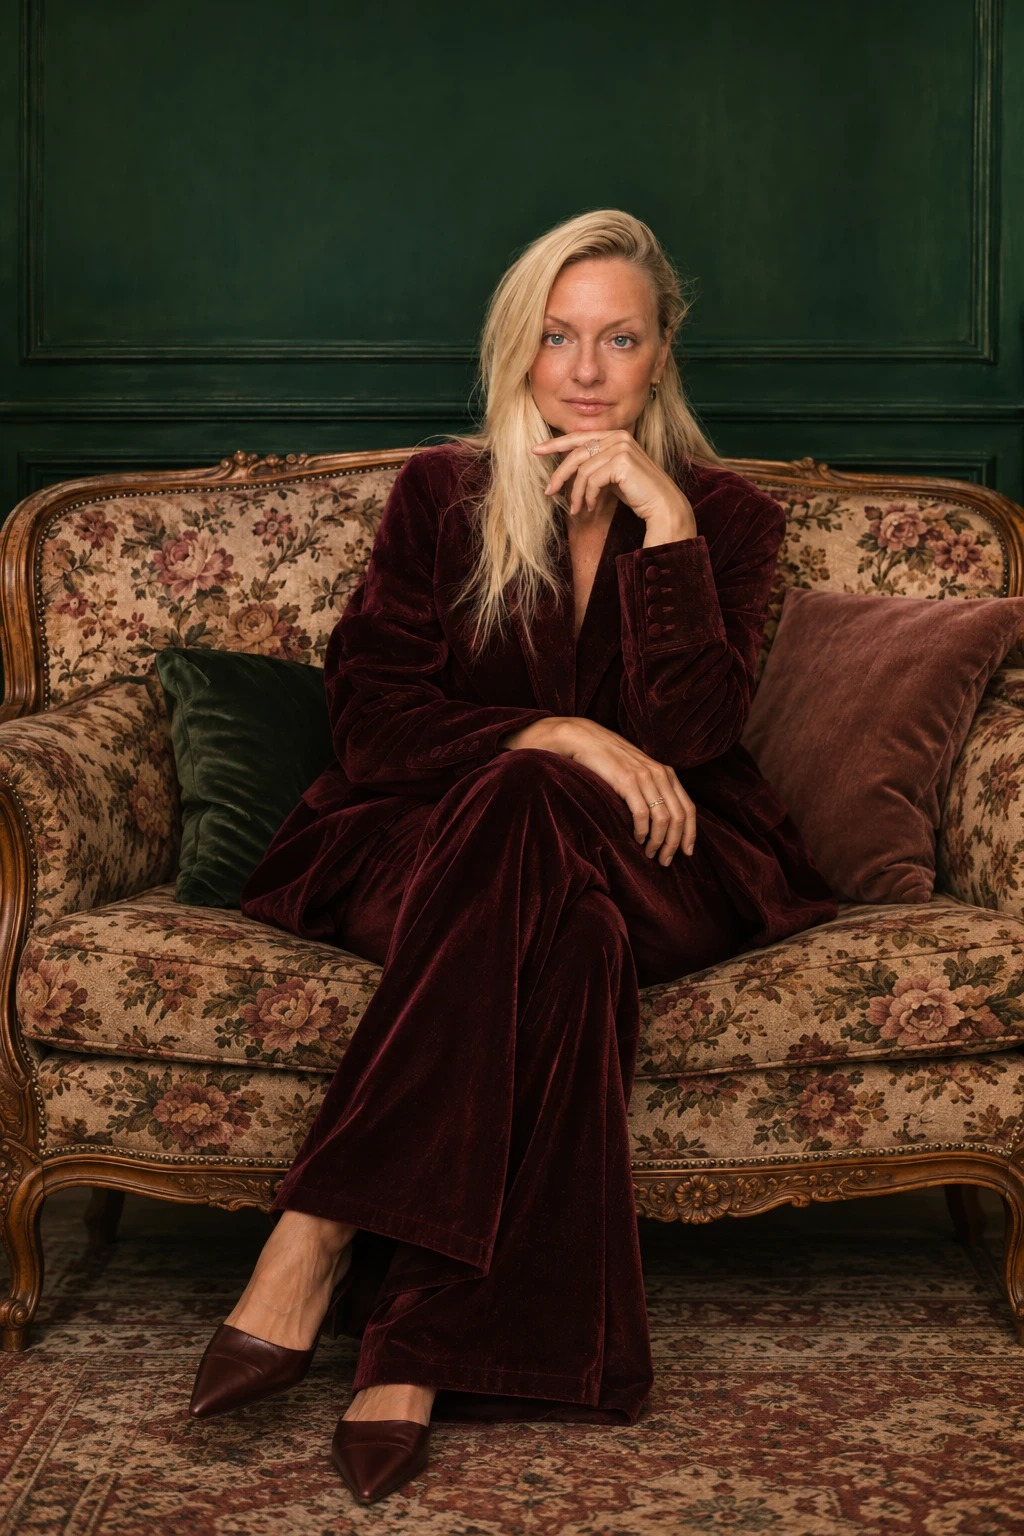
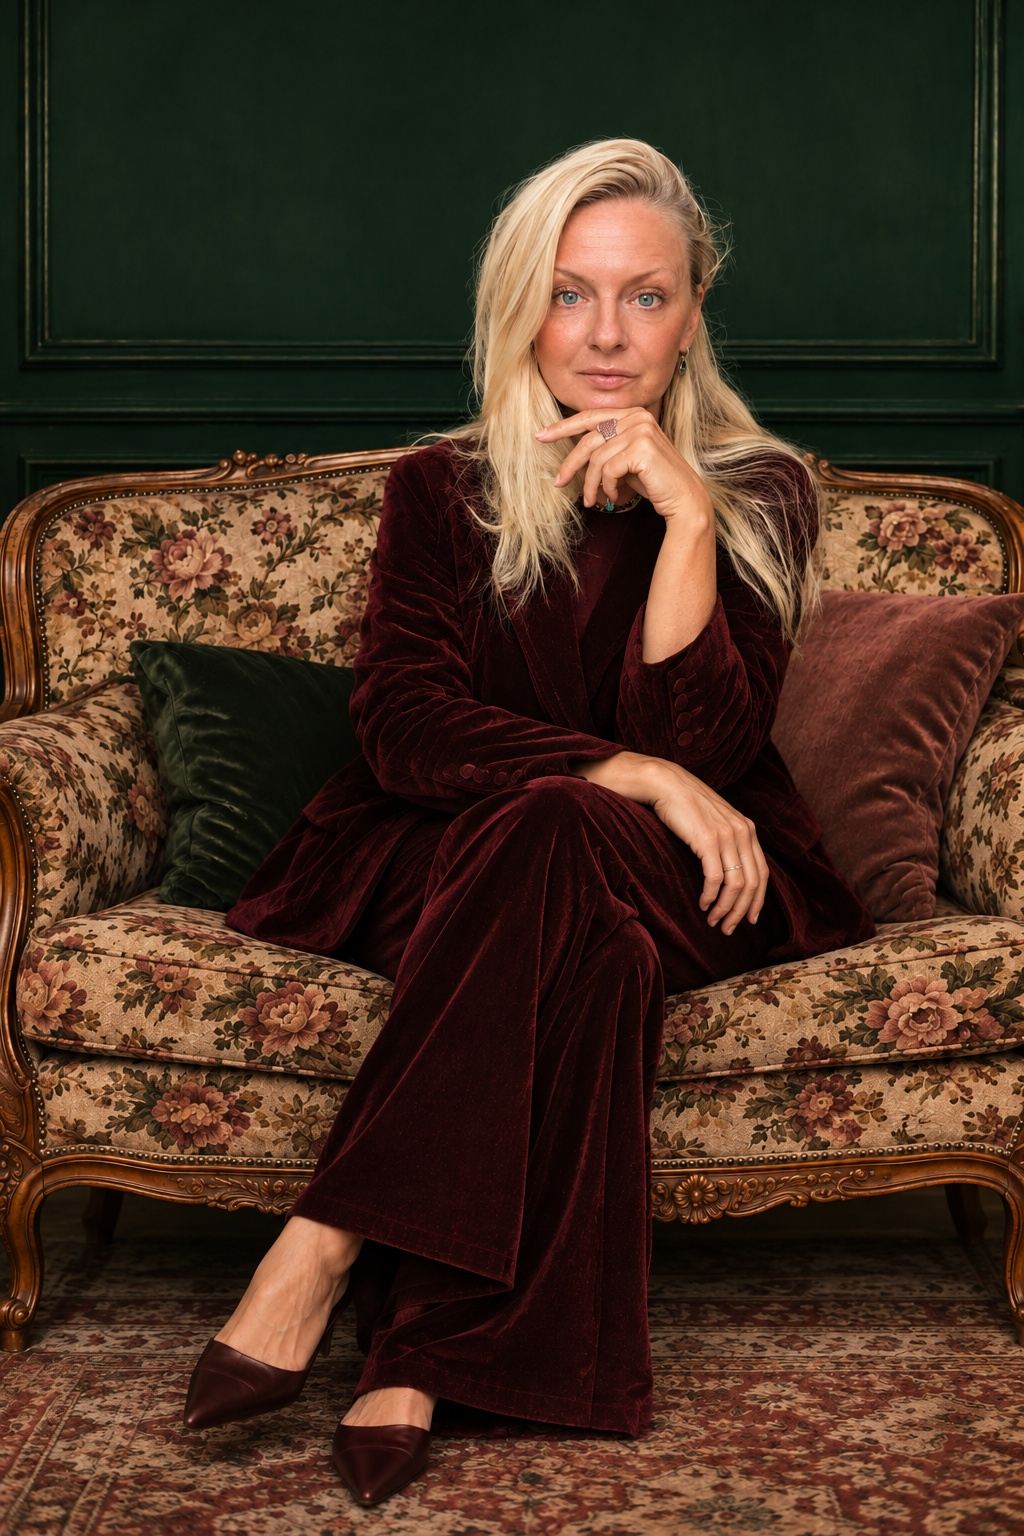
Клуб «Опора»: «закрытый клуб» над ОПОРА, «закрытое пространство» в оффере
Правки Артёма 04.11: над словом ОПОРА мелко «закрытый клуб»; в оффере
«закрытое пространство» вместо «закрытый клуб»; на компьютере «Это»
с большой буквы; текст в плашках по центру; новая картинка для телефона
(1024×1536), Виола по центру экрана.

diff --git a/build-assets/opora/opora.css b/build-assets/opora/opora.css
@@ -226,7 +226,7 @@ body.op {
 /* Телефон: первый экран ровно на высоту экрана, фото — фон от «ОПОРА»
    до низа экрана, Виола от макушки до туфель целиком. */
 .op-main {
-  --foto-top: 124px;
+  --foto-top: 146px;
   --foto-h: calc(100vh - var(--foto-top));
   --kn: 59%;          /* кнопка чуть ниже колен Виолы: 59 % высоты фото */
   /* блок «ОПОРА –» начинается сразу под кнопкой и строкой мест: наезжает на всё,
@@ -252,6 +252,7 @@ body.op {
   font-size: 15px;
   line-height: 1.3;
 }
+.op-pl { text-align: center; }
 .op-pl span { display: block; }
 .op-pl b { display: block; font-weight: 700; font-size: 16px; }
 .op-pl-tochka {
@@ -266,7 +267,8 @@ body.op {
   box-shadow: 0 0 10px 2px rgba(232, 200, 202, .7);
 }
 
-/* ОПОРА над Виолой. */
+/* «закрытый клуб» мелко, под ним ОПОРА над Виолой. */
+.op-nad { font-size: 15px; line-height: 1.3; letter-spacing: .14em; color: var(--text); margin-bottom: 4px; }
 .op-slovo { position: relative; z-index: 2; margin-top: 0; width: max-content; max-width: none; margin: 0 auto; }
 .op-nazvanie {
   font-family: var(--prata);
@@ -285,8 +287,7 @@ body.op {
   -webkit-mask-image: linear-gradient(to bottom, transparent 0, #000 12%, #000 90%, transparent 100%);
           mask-image: linear-gradient(to bottom, transparent 0, #000 12%, #000 90%, transparent 100%);
 }
-/* лицо Виолы чуть правее центра кадра: сдвигаем кадр, чтобы она стояла по центру */
-.op-hero-foto > .op-fon img { object-position: 74% 0; }
+.op-hero-foto > .op-fon img { object-position: calc(50% - var(--foto-h) * .057) 0; }  /* голова Виолы на 600 из 1024: ставим её по центру */
 
 /* Кнопка по центру на уровне груди, поверх фото. */
 .op-hero-cta { position: absolute; z-index: 4; left: 16px; right: 16px; top: var(--kn); }
@@ -717,6 +718,8 @@ body.op {
   /* «ОПОРА –» в оффере скрыто от глаз: крупное ОПОРА стоит прямо над ним */
   .op-hero-offer-nazv { position: absolute; width: 1px; height: 1px; overflow: hidden; clip-path: inset(50%); white-space: nowrap; }
   .op-hero-akcent { font-weight: 700; color: var(--rose); }
+  .op-eto { text-transform: capitalize; }   /* «Это» с большой буквы, в тексте «это» */
+  .op-nad { font-size: 17px; margin-bottom: 6px; }
   .op-cta-pk { grid-area: cta; display: block; position: static; inset: auto; width: auto; margin: 34px 0 0; }
   .op-cta-pk .op-btn-hero { width: auto; min-width: 340px; }
   .op-cta-pk .op-mest { margin-top: 14px; text-shadow: none; }

diff --git a/opora.py b/opora.py
@@ -75,6 +75,7 @@ def mest(n):
 TITLE = "Опора: закрытый клуб психолога Виолы Маро"
 
 # 1. Первый экран (правки Артёма 04.11.2026, форма как у менторства Пырикова).
+HERO_NAD = "закрытый клуб"                # мелко над словом ОПОРА
 HERO_NAZVANIE = "ОПОРА"
 # Две плашки сверху, как «Старт: / 14 апреля» у Пырикова: подпись и дата жирным.
 PLASHKA_START = "Старт:"                 # дата — PERVAYA_VSTRECHA
@@ -88,7 +89,7 @@ POD_ZAKRYT = "Набор закрыт, следующий откроется %(s
 
 # 1.1. Блок «ОПОРА –»: светлая панель наезжает на низ фото. Слева
 # определение, справа задачи с галочками.
-HERO_H = ("ОПОРА – это закрытый клуб в Телеграме для чувствительных людей, которые вместе учатся "
+HERO_H = ("ОПОРА – это закрытое пространство в Телеграме для чувствительных людей, которые вместе учатся "
           "ценить себя и жить свою жизнь, а не только жизнь других")
 HERO_AKCENT = "ценить себя и жить свою жизнь, а не только жизнь других"   # жирным, --wine
 DESCRIPTION = HERO_H
@@ -545,11 +546,11 @@ def sec_hero():
 <section class="op-hero" data-blok="Первый экран">
   <div class="op-hero-l">
     %(plashki)s
-    <p class="op-hero-offer"><span class="op-hero-offer-nazv">%(nazv)s –</span> %(offer)s</p>
+    <p class="op-hero-offer"><span class="op-hero-offer-nazv">%(nazv)s –</span> <span class="op-eto">%(eto)s</span>%(offer)s</p>
     %(cta_pk)s
   </div>
   <div class="op-hero-r">
-    <div class="op-slovo"><p class="op-nazvanie">%(slovo)s</p></div>
+    <div class="op-slovo"><p class="op-nad">%(nad)s</p><p class="op-nazvanie">%(slovo)s</p></div>
     <div class="op-hero-foto">
       %(fon)s
       %(cta_tel)s
@@ -570,9 +571,9 @@ def sec_hero():
     </div>
     <span class="op-strelka" aria-hidden="true"></span>
   </div>
-</section>""" % {"plashki": plashki, "nazv": nazv, "offer": akcent("op-hero-akcent"),
+</section>""" % {"plashki": plashki, "nazv": nazv, "eto": akcent("op-hero-akcent").split(" ", 1)[0], "offer": " " + akcent("op-hero-akcent").split(" ", 1)[1],
                  "cta_pk": cta % "op-cta-pk", "cta_tel": cta % "op-cta-tel",
-                 "slovo": HERO_NAZVANIE,
+                 "slovo": HERO_NAZVANIE, "nad": HERO_NAD,
                  "fon": fon("hero", "Виола Маро на диване у изумрудной стены", lazy=False, sizes="125vw"),
                  "h": akcent("op-akcent-slova"), "celi": celi, "zh": ZADACHI_H, "metka": ZADACHI_METKA}
 

diff --git a/Страницы-к-публикации/opora-teksty.md b/Страницы-к-публикации/opora-teksty.md
@@ -22,6 +22,8 @@
 
 *Правки Артёма 04.11.2026: форма первых двух экранов как у менторства Пырикова (egorpyrikov.ru/mentorstvo2025). Слои: фон без человека → слово «ОПОРА» → вырезка Виолы, голова перекрывает низ букв.*
 
+[Над названием] закрытый клуб
+
 [Название] ОПОРА
 
 [Плашка сверху, пока набор открыт] Набор до: [12 ноября]
@@ -46,9 +48,9 @@
 
 ### 1.1. Блок «ОПОРА –»
 
-[Заголовок] ОПОРА – это закрытый клуб в Телеграме для чувствительных людей, которые вместе учатся ценить себя и жить свою жизнь, а не только жизнь других
+[Заголовок] ОПОРА – это закрытое пространство в Телеграме для чувствительных людей, которые вместе учатся ценить себя и жить свою жизнь, а не только жизнь других
 
-*Главное желание «ценить себя и жить свою жизнь, а не только жизнь других» жирным цветом --wine.*
+*На компьютере «ОПОРА –» в оффере скрыто (крупное ОПОРА прямо над ним), «Это» с большой буквы. Главное желание «ценить себя и жить свою жизнь, а не только жизнь других» жирным цветом --wine.*
 
 [Заголовок справа] ЗАДАЧИ КЛУБА
 
